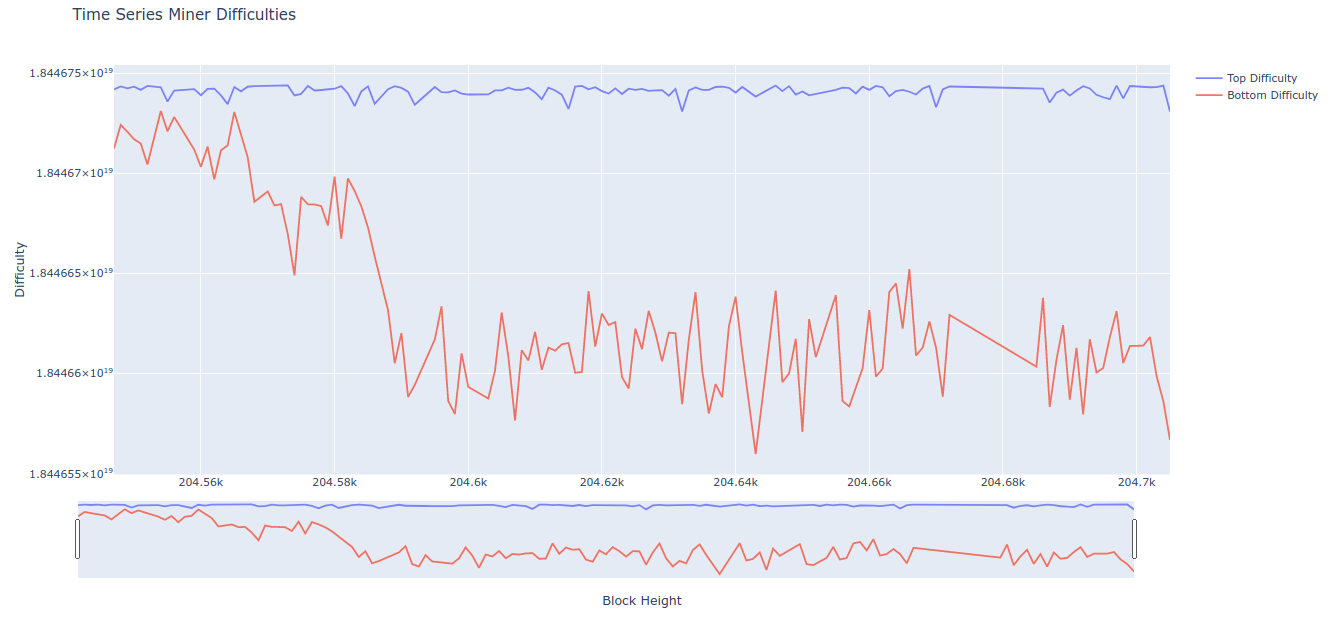
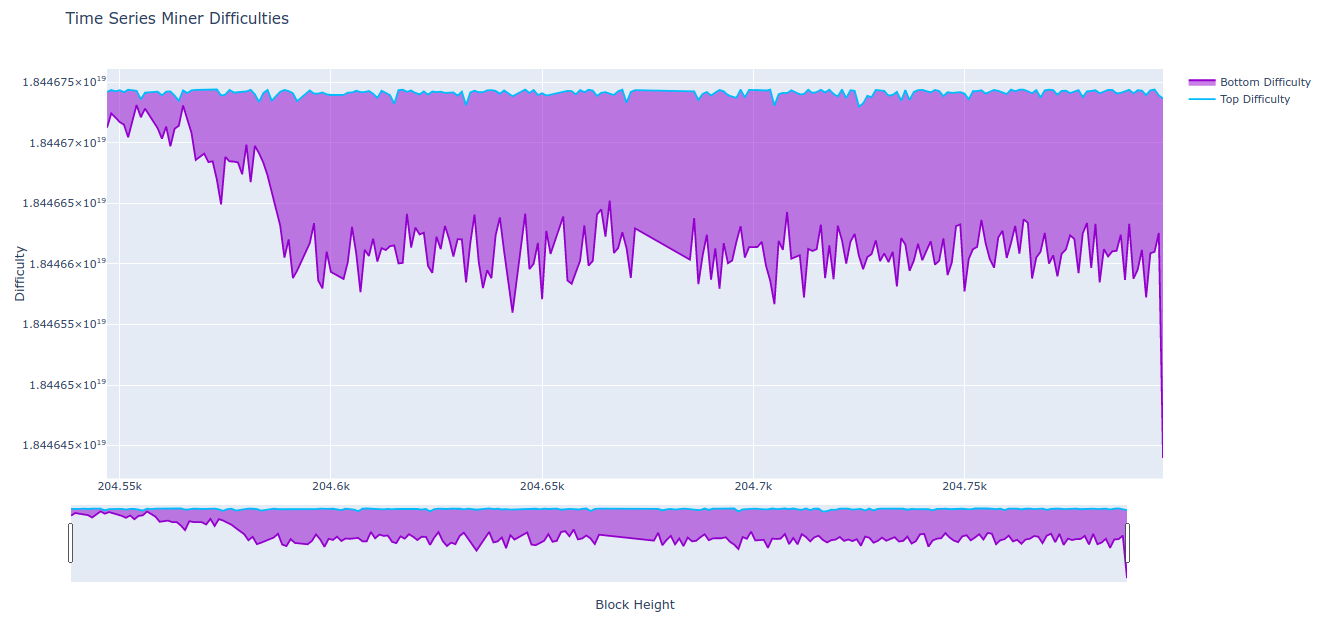
Updated difficulties graph to fill region between

Changed region(s): [[0.0, 0.0913, 0.9887, 0.9744], [0.0309, 0.0, 0.2163, 0.0609]]

diff --git a/alchemy/rpc.py b/alchemy/rpc.py
@@ -92,10 +92,23 @@ def graph_difficulties(is_by_height: bool = False):
     df = pd.read_csv(alchemy.csv_exporting.difficulties_filename)
     fig = go.Figure()
     fig.add_trace(
-        go.Scatter(x=df["Height"] if is_by_height else df.Date, y=df["Top"], name=f"Top Difficulty", opacity=0.8)
+        go.Scatter(
+            x=df["Height"] if is_by_height else df.Date,
+            y=df["Top"],
+            name=f"Top Difficulty",
+            line_color="deepskyblue",
+            opacity=0.8,
+        )
     )
     fig.add_trace(
-        go.Scatter(x=df["Height"] if is_by_height else df.Date, y=df["Bottom"], name=f"Bottom Difficulty", opacity=0.8)
+        go.Scatter(
+            x=df["Height"] if is_by_height else df.Date,
+            y=df["Bottom"],
+            name=f"Bottom Difficulty",
+            fill="tonexty",
+            line_color="darkviolet",
+            opacity=0.8,
+        )
     )
     fig.update_xaxes(title_text="Block Height" if is_by_height else "Time")
     fig.update_yaxes(title_text="Difficulty")
